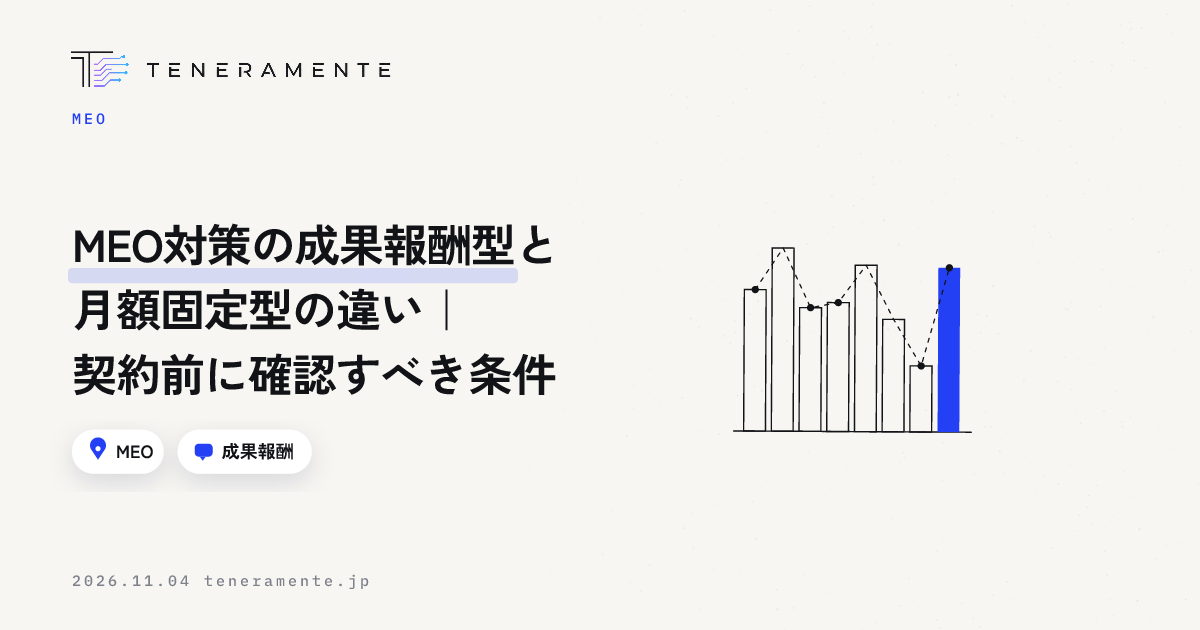
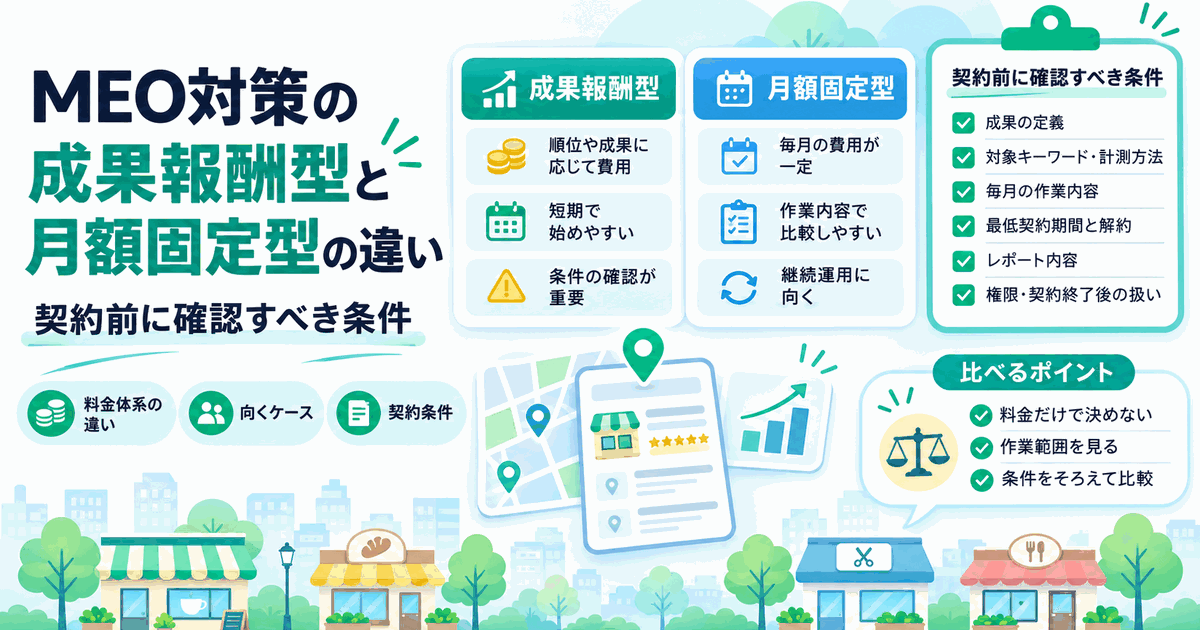
covers: 記事のトップ画像を ChatGPT の画像に差し替え（k106・m104）

diff --git a/mieroom/articles/tsuikyaku-mail-reibun.html b/mieroom/articles/tsuikyaku-mail-reibun.html
@@ -74,7 +74,7 @@
   </div>
 </section>
 <div class="post-cover">
-  <div class="band band--img"><img src="../assets/covers/tsuikyaku-mail-reibun.png" alt="賃貸仲介の追客メール例文｜反響から来店予約につなげる送り方" width="1200" height="675" decoding="async"></div>
+  <div class="band band--img"><img src="../assets/covers/tsuikyaku-mail-reibun.webp" alt="賃貸仲介の追客メール例文｜反響から来店予約につなげる送り方" width="1200" height="675" decoding="async"></div>
 </div>
 <div class="post-body">
 <p>反響が来てメールを返したのに、そのまま返信が来ない——賃貸仲介の店舗でいちばん多い取りこぼしです。文面を作り込んでも返信率が変わらないことがあります。<strong>追客メールで返信が来るかどうかは、文章のうまさではなく、一通目に何を入れたかと、二通目をいつ送るかで決まります</strong>。この記事では、そのまま使える例文と、送る順番の型を整理します。</p>

diff --git a/blog.html b/blog.html
@@ -143,7 +143,7 @@ src="https://www.facebook.com/tr?id=28086413637650888&ev=PageView&noscript=1"
   <div class="wrap">
     <div class="articles-grid" data-articles><!--STATIC-CARDS-->
       <a class="article-card reveal" href="2026-11-04-meo-seika-hoshu-tsukigaku.html" data-cat="meo">
-        <div class="visual"><img src="assets/img/covers/2026-11-04-meo-seika-hoshu-tsukigaku.png" alt="" width="640" height="336" loading="lazy" decoding="async" style="position:absolute;inset:0;width:100%;height:100%;object-fit:cover;"></div>
+        <div class="visual"><img src="assets/img/covers/2026-11-04-meo-seika-hoshu-tsukigaku-card.webp" alt="" width="640" height="336" loading="lazy" decoding="async" style="position:absolute;inset:0;width:100%;height:100%;object-fit:cover;"></div>
         <div class="meta-row">
           <span class="cat">MEO</span>
           <span class="dot"></span>

diff --git a/2026-11-04-meo-seika-hoshu-tsukigaku.html b/2026-11-04-meo-seika-hoshu-tsukigaku.html
@@ -179,7 +179,7 @@ src="https://www.facebook.com/tr?id=28086413637650888&ev=PageView&noscript=1"
 </section>
 
 <div class="post-cover">
-  <div class="post-cover-inner"><img src="assets/img/covers/2026-11-04-meo-seika-hoshu-tsukigaku.png" alt="MEO対策の成果報酬型と月額固定型の違い｜契約前に確認すべき条件" width="1200" height="630" fetchpriority="high" decoding="async" style="position:absolute;inset:0;width:100%;height:100%;object-fit:cover;"></div>
+  <div class="post-cover-inner"><img src="assets/img/covers/2026-11-04-meo-seika-hoshu-tsukigaku.webp" alt="MEO対策の成果報酬型と月額固定型の違い｜契約前に確認すべき条件" width="1200" height="630" fetchpriority="high" decoding="async" style="position:absolute;inset:0;width:100%;height:100%;object-fit:cover;"></div>
 </div>
 
 <div class="post-wrap">
